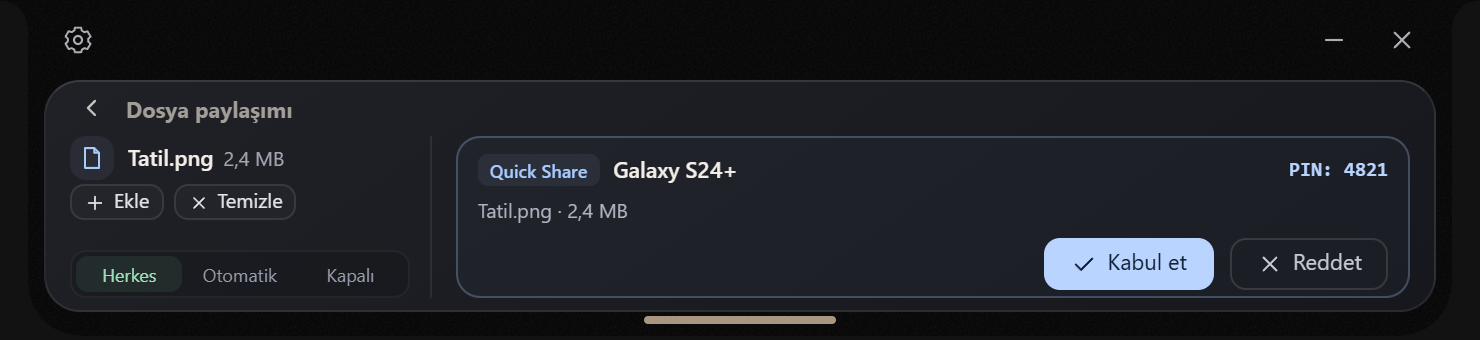
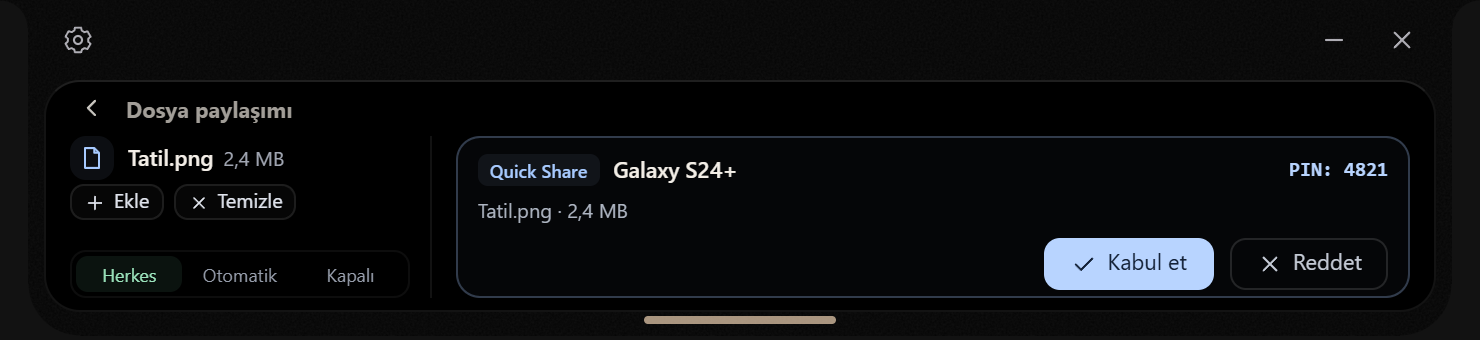
v0.9.3 Beta Update

diff --git a/src/island/share.ts b/src/island/share.ts
@@ -128,7 +128,7 @@ export function shareSheet(d: any) {
 
     if (state.offer) {
       const offer = state.offer;
-      const protoLabel = offer.protocol === "airdrop" ? "AirDrop" : "Quick Share";
+      const protoLabel = offer.protocol === "localsend" ? "LocalSend" : offer.protocol === "airdrop" ? "AirDrop" : "Quick Share";
       const fileNames = (offer.files || []).map((f: any) => f.name).join(", ") || "Dosya";
       const totalBytes = (offer.files || []).reduce((s: number, f: any) => s + (f.size || 0), 0);
       const offerBox = el(
@@ -163,7 +163,7 @@ export function shareSheet(d: any) {
     } else if (state.transfer) {
       const tr = state.transfer;
       const pct = tr.total > 0 ? Math.min(100, Math.round((tr.transferred / tr.total) * 100)) : tr.status === "done" ? 100 : 0;
-      const protoLabel = tr.protocol === "airdrop" ? "AirDrop" : "Quick Share";
+      const protoLabel = tr.protocol === "localsend" ? "LocalSend" : tr.protocol === "airdrop" ? "AirDrop" : "Quick Share";
       const statusText =
         tr.status === "connecting"
           ? "Bağlanıyor…"
@@ -233,7 +233,7 @@ export function shareSheet(d: any) {
         );
       } else {
         for (const p of peers) {
-          const isAd = p.protocol === "airdrop";
+          const label = p.protocol === "localsend" || p.subProtocol === "localsend" ? "LocalSend" : p.protocol === "airdrop" ? "AirDrop" : "Quick Share";
           const row = el(
             "button",
             "share-peer" + (selectedPeerId === p.id ? " selected" : ""),
@@ -242,9 +242,9 @@ export function shareSheet(d: any) {
               "span",
               "share-peer-text",
               el("strong", "", p.name || "Cihaz"),
-              el("small", "", isAd ? "AirDrop" : "Quick Share")
+              el("small", "", label)
             ),
-            el("span", "share-badge " + p.protocol, isAd ? "AirDrop" : "Quick Share"),
+            el("span", "share-badge " + p.protocol, label),
             el("span", "share-peer-go", icon("send"))
           );
           row.type = "button";

diff --git a/public/styles/25-v092.css b/public/styles/25-v092.css
@@ -110,7 +110,8 @@
   gap: 5px;
   overflow: hidden;
   border-radius: 18px;
-  background: linear-gradient(145deg, #202127, #17181d);
+  background: #000;
+  backdrop-filter: none;
 }
 #shelf .shelf-sheet[data-kind='share'] .sheet-body { overflow: hidden; }
 #shelf .share-sheet {
@@ -157,8 +158,8 @@
 #shelf .share-peers-head { display: flex; align-items: center; justify-content: space-between; gap: 8px; flex: none; }
 #shelf .share-peers-head small { color: #b8bfcc; font-size: 10px; }
 #shelf .share-peers-list { flex: 1; min-height: 0; display: flex; flex-direction: column; gap: 5px; overflow-y: auto; overscroll-behavior: contain; scrollbar-width: thin; scrollbar-color: #ffffff25 transparent; }
-#shelf .share-peers-empty { display: flex; align-items: center; gap: 10px; min-height: 42px; height: 100%; padding: 8px 12px; color: #a2a7b3; border: 1px solid #ffffff0d; border-radius: 10px; background: #ffffff03; font-size: 10px; }
-#shelf .share-peers-empty svg { color: #a7caff; width: 20px; height: 20px; }
+#shelf .share-peers-empty { display: flex; align-items: center; gap: 10px; min-height: 42px; height: 100%; padding: 8px 12px; color: #a2a7b3; border: 1px solid #ffffff0d; border-radius: 10px; background: #080808; font-size: 10px; }
+#shelf .share-peers-empty svg { color: var(--v10-cream, #edc9a9); width: 20px; height: 20px; }
 #shelf .share-peer { display: flex; align-items: center; gap: 8px; width: 100%; min-height: 40px; padding: 6px 9px; border: 1px solid #ffffff12; border-radius: 10px; background: #ffffff04; color: #e1e5ee; text-align: left; }
 #shelf .share-peer.selected { border-color: #a7caff55; }
 #shelf .share-peer-icon { width: 26px; height: 26px; display: grid; place-items: center; border-radius: 8px; background: #ffffff08; color: #a7caff; flex: none; }

diff --git a/public/index.html b/public/index.html
@@ -64,7 +64,7 @@
         </button>
         <button id="toggle" class="identity" >
           <strong>Charles</strong
-          ><small class="version-label">v0.9.2 Beta</small><small id="status">Senin küçük kod arkadaşın.</small>
+          ><small class="version-label">v0.9.3 Beta</small><small id="status">Senin küçük kod arkadaşın.</small>
         </button>
         <aside id="mini-music" aria-label="Spotify">
           <strong id="music-title">Spotify</strong

diff --git a/README.md b/README.md
@@ -3,7 +3,7 @@
 </p>
 
 <p align="center">
-  <img alt="Version" src="https://img.shields.io/badge/version-v0.9.2%20beta-edc9a9?style=flat-square">
+  <img alt="Version" src="https://img.shields.io/badge/version-v0.9.3%20beta-edc9a9?style=flat-square">
   <img alt="Platform" src="https://img.shields.io/badge/platform-Windows%2010%20%7C%2011%20x64-2b2f3a?style=flat-square">
   <a href="LICENSE"><img alt="License: GPL v3 or later" src="https://img.shields.io/badge/license-GPL--3.0--or--later-blue?style=flat-square"></a>
   <img alt="Electron" src="https://img.shields.io/badge/Electron-44-47848f?style=flat-square">
@@ -38,10 +38,10 @@ yazarken minik dizüstünde kod yazar, çok sallarsan da başı döner.
 
 ---
 
-## v0.9.2 Beta · Convert & share / Dönüştür ve paylaş
+## v0.9.3 Beta · Convert & share / Dönüştür ve paylaş
 
 <p align="center">
-  <img src="docs/images/island.png" alt="v0.9.2 island: icon-only converter and send buttons, centered Charles and music" width="100%">
+  <img src="docs/images/island.png" alt="v0.9.3 island: icon-only converter and send buttons, centered Charles and music" width="100%">
 </p>
 
 ### Convert files on your desktop · Masaüstünde dosya dönüştür
@@ -60,17 +60,19 @@ boyut seçebilirsin. Sonuç, orijinal dosyanın yanına kaydedilir.
   <img src="docs/images/converter.png" alt="Converter with a sample PNG, output formats, quality and size controls" width="100%">
 </p>
 
-### Quick Share from the island · Adacıktan dosya paylaş
+### All Android devices with Quick Share · Tüm Android cihazlarda Quick Share
 
 Drop files on the **paper plane**, select a nearby device and send. Quick Share supports
-two-way transfers with compatible Android/Samsung devices and computers on the same local
+two-way transfers between Android devices and computers on the same local
 network. Charles remains discoverable while running when receiving is enabled, even with
 the panel closed. An incoming request opens the accept/reject panel immediately.
+Quick Share must be available and enabled on the Android device.
 
 **Kâğıt uçak** simgesine dosya bırak, yakındaki cihazı seç ve gönder. Quick Share ile aynı
-yerel ağdaki uyumlu Android/Samsung cihazlar ve bilgisayarlar arasında iki yönlü aktarım
+yerel ağdaki tüm Android cihazlar ve bilgisayarlar arasında iki yönlü aktarım
 yapabilirsin. Alım açıkken Charles çalıştığı sürece bilgisayarın görünür kalır; paneli açık
 tutman gerekmez. Gelen istek, kabul/ret panelini doğrudan açar.
+Android cihazda Quick Share özelliğinin bulunması ve açık olması gerekir.
 
 <p align="center">
   <img src="docs/images/sharing.png" alt="File sharing panel with a sample Galaxy S24+ and receive visibility controls" width="100%">
@@ -85,12 +87,15 @@ tutman gerekmez. Gelen istek, kabul/ret panelini doğrudan açar.
 </p>
 
 Received files go to Downloads; an existing file with the same name is preserved. QR is no
-longer needed in this panel. Samsung S24+ transfers have been tested in both directions.
-Windows uses LocalSend for compatible iPhone apps; native Apple AirDrop/AWDL is not supported.
+longer needed in this panel. Transfers have been tested successfully on Samsung and other Android brands.
+Apple devices (iPhone, iPad and Mac) use the **LocalSend app** to share files with Charles
+on the same local network. Native Apple AirDrop/AWDL is not supported on Windows.
 
 Alınan dosyalar İndirilenler’e kaydedilir; aynı adlı eski dosyanın üzerine yazılmaz. Bu panelde
-QR alanı kaldırıldı. Samsung S24+ ile iki yönlü aktarım test edildi. Windows’ta iPhone için
-uyumlu LocalSend uygulaması gerekir; yerel Apple AirDrop/AWDL desteklenmez.
+QR alanı kaldırıldı. Samsung ve farklı markalardaki Android telefonlarda aktarım başarıyla test edildi.
+**Apple cihazlarda (iPhone, iPad ve Mac) LocalSend uygulaması ile dosya paylaşımı desteklenir.**
+Apple cihazda LocalSend açık olmalı ve cihazlar aynı yerel ağa bağlı olmalıdır.
+Windows’ta yerel Apple AirDrop/AWDL desteklenmez.
 
 *Screenshots use sample file, device and status data. / Ekran görüntülerindeki dosya, cihaz
 ve durum bilgileri tanıtım için örnektir.* [Sharing guide / Paylaşım rehberi](docs/SHARING.md)
@@ -212,7 +217,7 @@ Ayrıntılar: [docs/MODULES.md](docs/MODULES.md).
 ## Screenshots · Ekran görüntüleri
 
 <p align="center">
-  <img src="docs/images/island.png" alt="The updated v0.9.2 island with centered Charles, converter and file-sharing icons" width="100%">
+  <img src="docs/images/island.png" alt="The updated v0.9.3 island with centered Charles, converter and file-sharing icons" width="100%">
 </p>
 
 <p align="center">

diff --git a/CHANGELOG.md b/CHANGELOG.md
@@ -1,5 +1,13 @@
 # ProjectCharles — Yama notları
 
+## v0.9.3 Beta — 25 Ekim 2026
+
+- LocalSend: outgoing TLS client certificate, register handshake and periodic discovery replies.
+- Route multicast through the active network; refresh after network changes.
+- Label LocalSend devices separately from native AirDrop.
+- Non-Samsung Android Quick Share confirmed by the maintainer.
+- LocalSend real-device test passed; black sharing panel and cream discovery icon.
+
 Charles’ın ilk masaüstü sürümünden v0.8.3 Beta’ya kadar eklenen özellikler, değişen davranışlar ve giderilen sorunlar bu dosyada yer alıyor. En yeni sürüm en üstte.
 
 **Sürüm numaraları:** İlk geliştirme döneminde v1, v2 ve v3 adları kullanıldı. Proje beta aşamasında olduğu için v3.2.2’den sonraki sürüm **v0.4 Beta** olarak adlandırıldı. Bu bir geri dönüş değil, numaralandırma değişikliği. Beta boyunca 0.x sürümleri kullanılacak; v1.0 ile beta dönemi tamamlanacak.

diff --git a/docs/VERIFICATION-v0.9.3.md b/docs/VERIFICATION-v0.9.3.md
@@ -1,0 +1,9 @@
+# v0.9.3 Beta — doğrulama
+
+- LocalSend gerçek cihaz testi kullanıcı tarafından başarılı olarak bildirildi.
+- Farklı markalardaki Android cihazlarda Quick Share kullanıcı tarafından doğrulandı.
+- LocalSend istemci sertifikası, karşılıklı kayıt, gelen dosya ve kapalı alım davranışı otomatik test edildi.
+- Paylaşım panelinin hesaplanan arka planı rgb(0, 0, 0); cihaz arama simgesi ortak krem tema rengi rgb(238, 210, 178).
+- README görselleri v0.9.3 kaynak bileşenlerinden örnek verilerle yenilendi.
+- İlk genel test turunda 301 testten 300 geçti; kurulum sürüm metni düzeltildikten sonra ilgili 35 testin tamamı geçti.
+- Yerel GitHub klasörü ve ZIP paketleri kullanıcı talimatıyla güncellendi; uzak depoya push veya GitHub Release yayımlanmadı.
